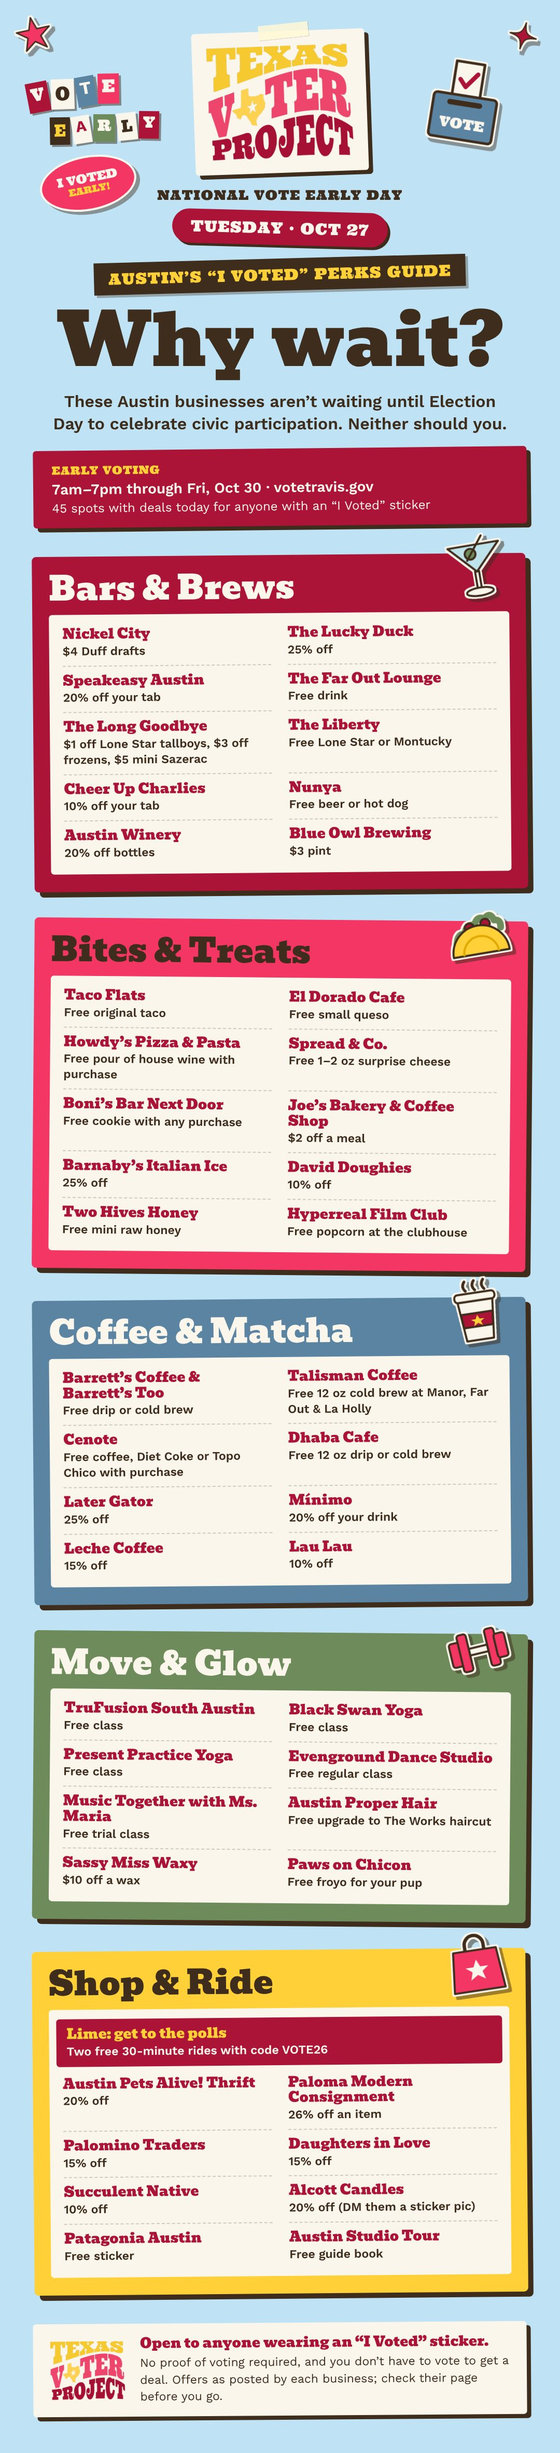
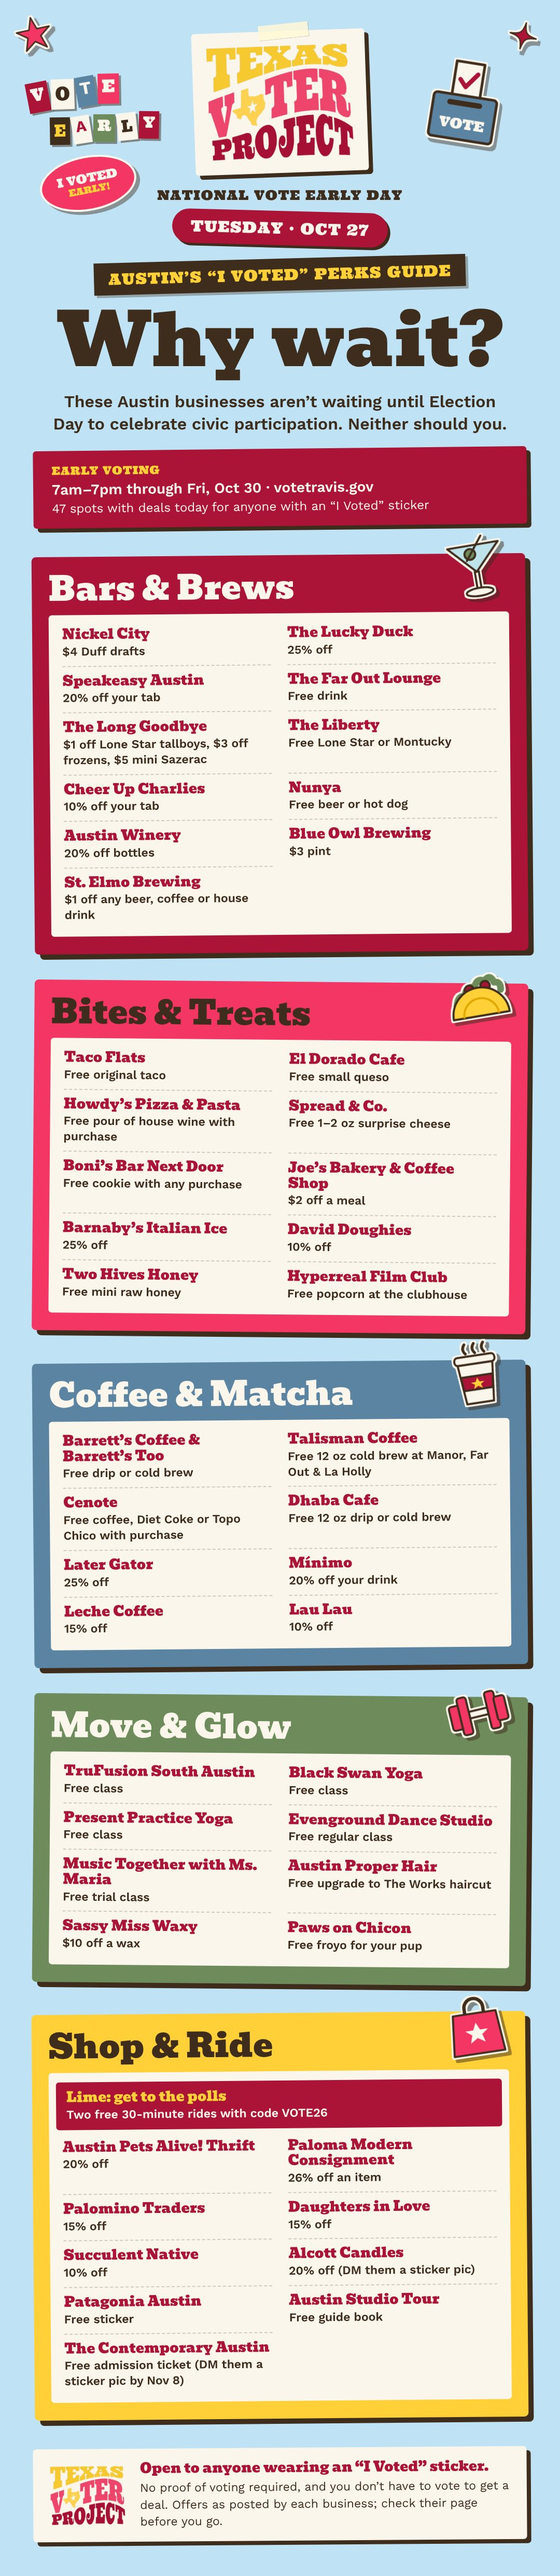
Vote Early Day guide: add St. Elmo Brewing and The Contemporary Austin (47 spots)
Claude-Session: https://claude.ai/code/session_01PMnN324xjJ9yNVuchGf2he

diff --git a/events.html b/events.html
@@ -78,10 +78,10 @@
       </a>
 
       <div class="feature-event" data-end="2026-10-28T05:00:00Z">
-        <a href="tvp-vote-early-day-perks.jpg" target="_blank" rel="noopener" class="feature-event-img"><img src="tvp-vote-early-day-cover.jpg" alt="Why wait? Austin's I Voted Perks Guide for National Vote Early Day, Tuesday October 27: 45 Austin spots with deals for anyone wearing an I Voted sticker. Early voting 7am to 7pm through Friday October 30." width="1080" height="1350"></a>
+        <a href="tvp-vote-early-day-perks.jpg" target="_blank" rel="noopener" class="feature-event-img"><img src="tvp-vote-early-day-cover.jpg" alt="Why wait? Austin's I Voted Perks Guide for National Vote Early Day, Tuesday October 27: 47 Austin spots with deals for anyone wearing an I Voted sticker. Early voting 7am to 7pm through Friday October 30." width="1080" height="1350"></a>
         <div class="feature-event-body">
           <span class="pill-tag" style="background:var(--red); align-self:flex-start;">Today · National Vote Early Day</span>
-          <div class="badge-inline" style="color:var(--teal);">Tue Oct 27 — 45 spots across Austin</div>
+          <div class="badge-inline" style="color:var(--teal);">Tue Oct 27 — 47 spots across Austin</div>
           <h3 class="tvp-h">Why wait? Austin&rsquo;s &ldquo;I Voted&rdquo; Perks Guide</h3>
           <p>These Austin businesses aren&rsquo;t waiting until Election Day to celebrate civic participation, and neither should you. Free tacos, coffee, drinks, fitness classes, Lime rides and more, all day today.</p>
           <p style="font-size:13px;">Open to anyone wearing an &ldquo;I Voted&rdquo; sticker. No proof of voting required, and you don&rsquo;t have to vote to get a deal. Offers as posted by each business; check their page before you go.</p>
